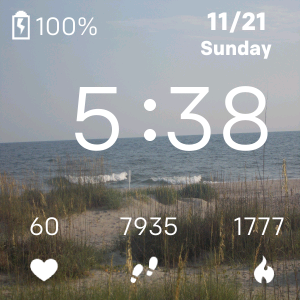
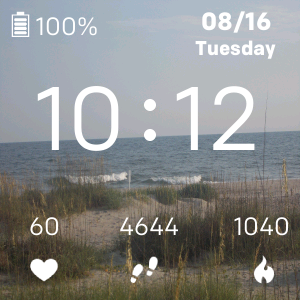
Added a new blog post and my latest fitbit clockface :)

diff --git a/_includes/header.html b/_includes/header.html
@@ -25,7 +25,7 @@
     <title>{{ page_title }}</title>
     <meta name="description" content="{{ meta_description }}" />
     <meta property="og:title" content="{{ user.name }}" />
-    <meta property="og:image" content="{{ user.avatar_url }}" />
+    <!-- <meta property="og:image" content="{{ user.avatar_url }}" /> -->
     <meta property="og:description" content="{{ meta_description }}" />
     <meta name="viewport" content="width=device-width, initial-scale=1, shrink-to-fit=no">
     <link href="{{ "/assets/styles.css" | relative_url }}" rel="stylesheet" type="text/css">

diff --git a/_posts/2022-08-25-fitbit-clockfaces-update.md b/_posts/2022-08-25-fitbit-clockfaces-update.md
@@ -1,0 +1,17 @@
+---
+title: "Update about my Fitbit clockfaces"
+published: true
+---
+
+I updated the **simple beach** clock face to support Versa 3, added the date to the **4th of July** face and created a new one for this upcoming fall. :smile:
+<br>
+<br>
+I will be updating the others very soon. :grin:
+<br>
+<br>
+Check them out on the Homepage. :smile:
+<br>
+<br>
+Thanks for visiting,
+<br>
+Travis
